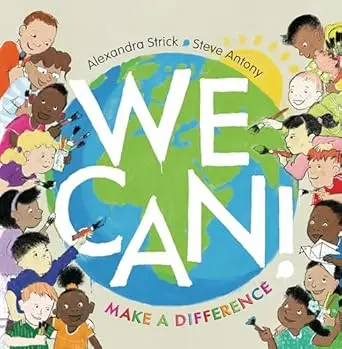
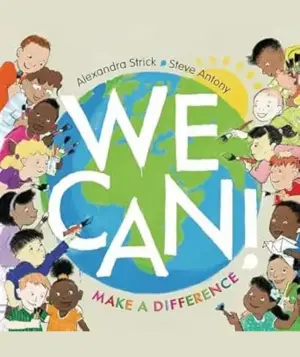
replaced book image with resized version

diff --git a/assets/css/style.css b/assets/css/style.css
@@ -28,6 +28,7 @@ rgba(241, 139, 128, 0.7) - Light red
 }
 
 #cover-text {
+    font-family: "Inclusive Sans", sans-serif;
     background: linear-gradient(45deg, rgba(241, 222, 128, 0.7), rgba(128, 198, 241, 0.7), rgba(241, 139, 128, 0.7));
     padding: 20px; /* Add some padding if needed */
     border-radius: 10px; /* Optional: rounded corners */
@@ -38,6 +39,7 @@ rgba(241, 139, 128, 0.7) - Light red
     transform: translate(-50%, -50%);
     text-align: center;
     width: 100%;
+
 }
 
 .mission {

diff --git a/README.md b/README.md
@@ -1,6 +1,6 @@
 # Bright Futures
 
-![Bright Futures - Project Banner](/documentation/images/home-page-screenshot)
+![Bright Futures - Project Banner](/documentation/images/BF-Banner.webp)
 
 
 <p align="center">
@@ -11,7 +11,7 @@
 
 For my first individual formative HTML, CSS & Bootstrap assignment for the Code Institute AI Augmented FullStack Bootcamp, I created a project based upon the goals and features proposed in Project 1: "Diversity & Inclusion".
 
-Live project: <a href="place link here" target="_blank">Bright Futures</a>
+Live project: <a href="https://gerbil1511.github.io/BrightFuturesProject/index.html" target="_blank">Bright Futures</a>
 
 <h2 align="center" id="TOC">Table of Contents</h2>
 
@@ -51,7 +51,7 @@ Live project: <a href="place link here" target="_blank">Bright Futures</a>
   - [Acknowledgements](#acknowledgements)
 
 
-<p align="right"><a href="#provide link here">Back To Top</a></p>
+<p align="right"><a href="#bright-futures">Back To Top</a></p>
 
 ## Project Outline
 
@@ -87,11 +87,13 @@ User Stories:
 
 
 <hr>
-<p align="right"><a href="#add link here">Back To Top</a></p>
+<p align="right"><a href="#bright-futures">Back To Top</a></p>
 
 ## Scope: You transform strategy into requirements by defining the product or service's characteristics. This is where you determine what features will be integral to the product.
 
 ## Features
+
+
 
 ### General Features
 
@@ -115,7 +117,7 @@ User Stories:
 
 
 <hr>
-<p align="right"><a href="#add link here">Back To Top</a></p>
+<p align="right"><a href="#bright-futures">Back To Top</a></p>
 
 
 ## Structure: This is where you arrange the site's functions. 
@@ -123,7 +125,7 @@ User Stories:
 ## features go here.........
 
 <hr>
-<p align="right"><a href="#add link here">Back To Top</a></p>
+<p align="right"><a href="#bright-futures">Back To Top</a></p>
 
 
 ## Skeleton: This is where you design the placement of buttons, tabs, photos, and text blocks
@@ -144,7 +146,7 @@ I designed the website using wireframes by utilising the Balsamiq software [Bals
 
 
 <hr>
-<p align="right"><a href="#add link here">Back To Top</a></p>
+<p align="right"><a href="#bright-futures">Back To Top</a></p>
 
 
 ## Surface: This is the most concrete plane. Design, colours, typography.
@@ -178,7 +180,7 @@ used dec tools to check
 During testing it was apparent that `display-6` was too large for the navbar brand text so this was removed to increase responsivity.
 
 <hr>
-<p align="right"><a href="#add link here">Back To Top</a></p>
+<p align="right"><a href="#bright-futures">Back To Top</a></p>
 
 
 ## Built With
@@ -209,7 +211,7 @@ ChatGPT
 
 
 <hr>
-<p align="right"><a href="#add link here">Back To Top</a></p>
+<p align="right"><a href="#bright-futures">Back To Top</a></p>
 
 
 ## Deployment
@@ -220,14 +222,16 @@ Step by step how to go through deployment
 
 
 <hr>
-<p align="right"><a href="#aadd link here">Back To Top</a></p>
+<p align="right"><a href="#bright-futures">Back To Top</a></p>
 
 
 ## Testing
 
-Continuous testing throughout project
+Throughout the project, it was important to ensure that the website would pass validation, by continously utilising the following tools
 
-Dev Tools in Chrome Browser.
+Dev Tools in Chrome Browser<br>
+
+[WCAG Contrast Checker Chrome Extension] (https://chromewebstore.google.com/detail/wcag-color-contrast-check/plnahcmalebffmaghcpcmpaciebdhgdf)<br>
 
 [HTML Validation](https://validator.w3.org/)<br>
 
@@ -237,7 +241,7 @@ Dev Tools in Chrome Browser.
 
 
 <hr>
-<p align="right"><a href="#add link here">Back To Top</a></p>
+<p align="right"><a href="#bright-futures">Back To Top</a></p>
 
 ## Credits
 
@@ -248,18 +252,25 @@ Other resources:
 - [Bootstrap Docs](https://getbootstrap.com/docs/5.3)
 
 
+
 ### Content
+
+- Whole Child Counselling - (https://www.wholechildcounseling.com/post/how-to-talk-with-kids-about-diversity-and-inclusion)<br>
+
+- NSPCC - (https://www.nspcc.org.uk/about-us/equality-diversity-and-inclusion/)<br>
+
+- UK Mums - (https://ukmums.tv/column/teaching-kids-about-inclusivity-and-acceptance/)<br>
 
 
 ### Media
-Youtube videos
+- Bright Futures Logo: Based upon the icon designed by Kamin Ginkaew at [The Noun Project] (https://thenounproject.com/creator/ginkaew/)
 
 
 ### Acknowledgements
 
-- Dawn, Amanda, Joanna, Maja, Maebh (fellow C.I. Bottcamp peers) for providing feedback on ... in particular...
-- Dillon (our facilitator) for providing feedback on.... in particular.....
-- My family for providing general support to keep my confidence going and their feedback on ... in particularr...
+- Dawn, Amanda, Joanna, Khalisah, Maja, Maebh and Zee (and many other fellow C.I. Bottcamp peers) for consistently keeping me motivated and encouraged with their caring messages and their fantastic humour!
+- Dillon (our facilitator) for providing motivation and support during our course meetings and on Slack.
+- My family for providing neverending support to keep my confidence going and their critical feedback on absolutely nothing as they continously preaised mt progress over the two days!
 
 <hr>
-<p align="right"><a href="#add link here">Back To Top</a></p>
+<p align="right"><a href="#bright-futures">Back To Top</a></p>
